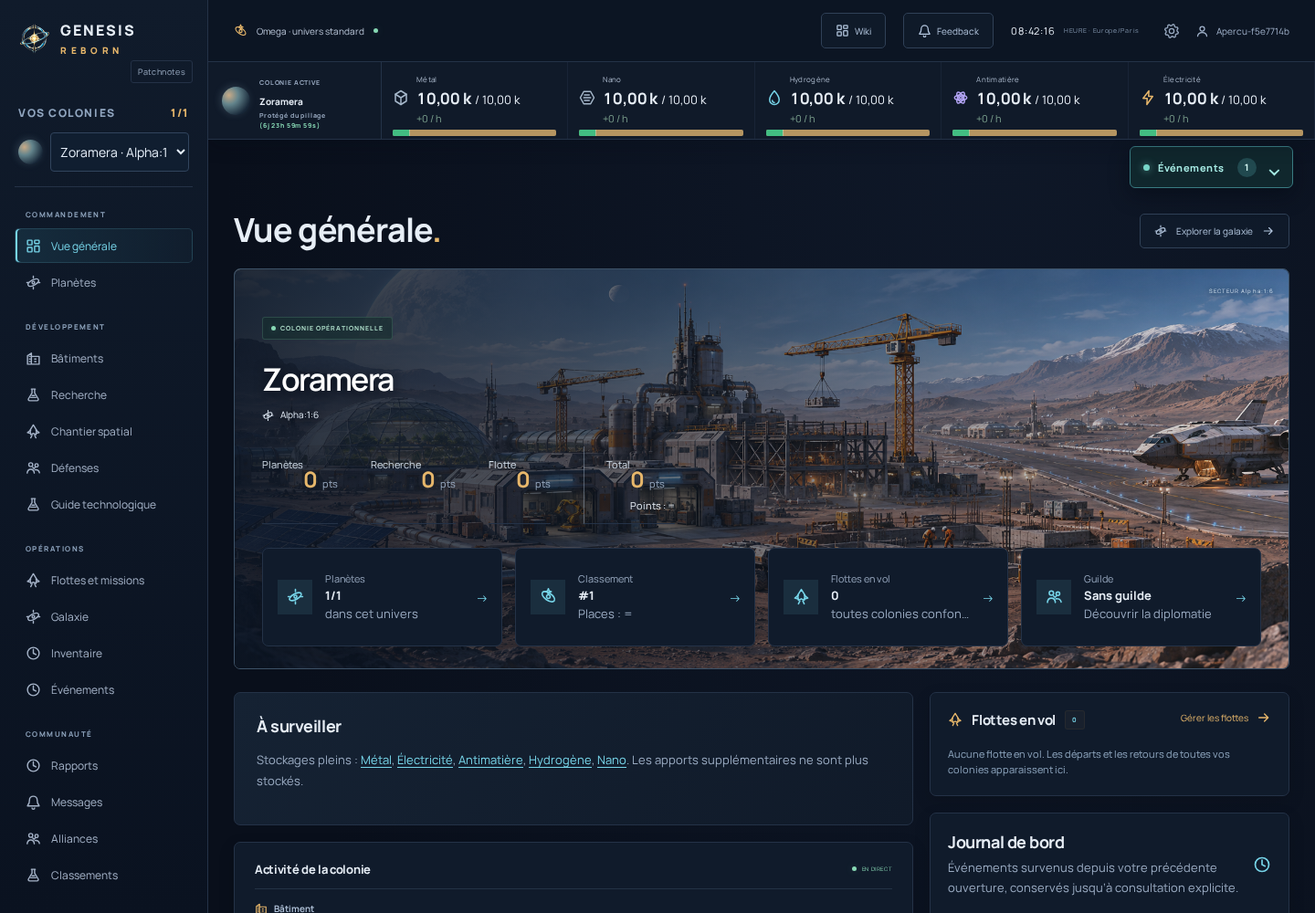
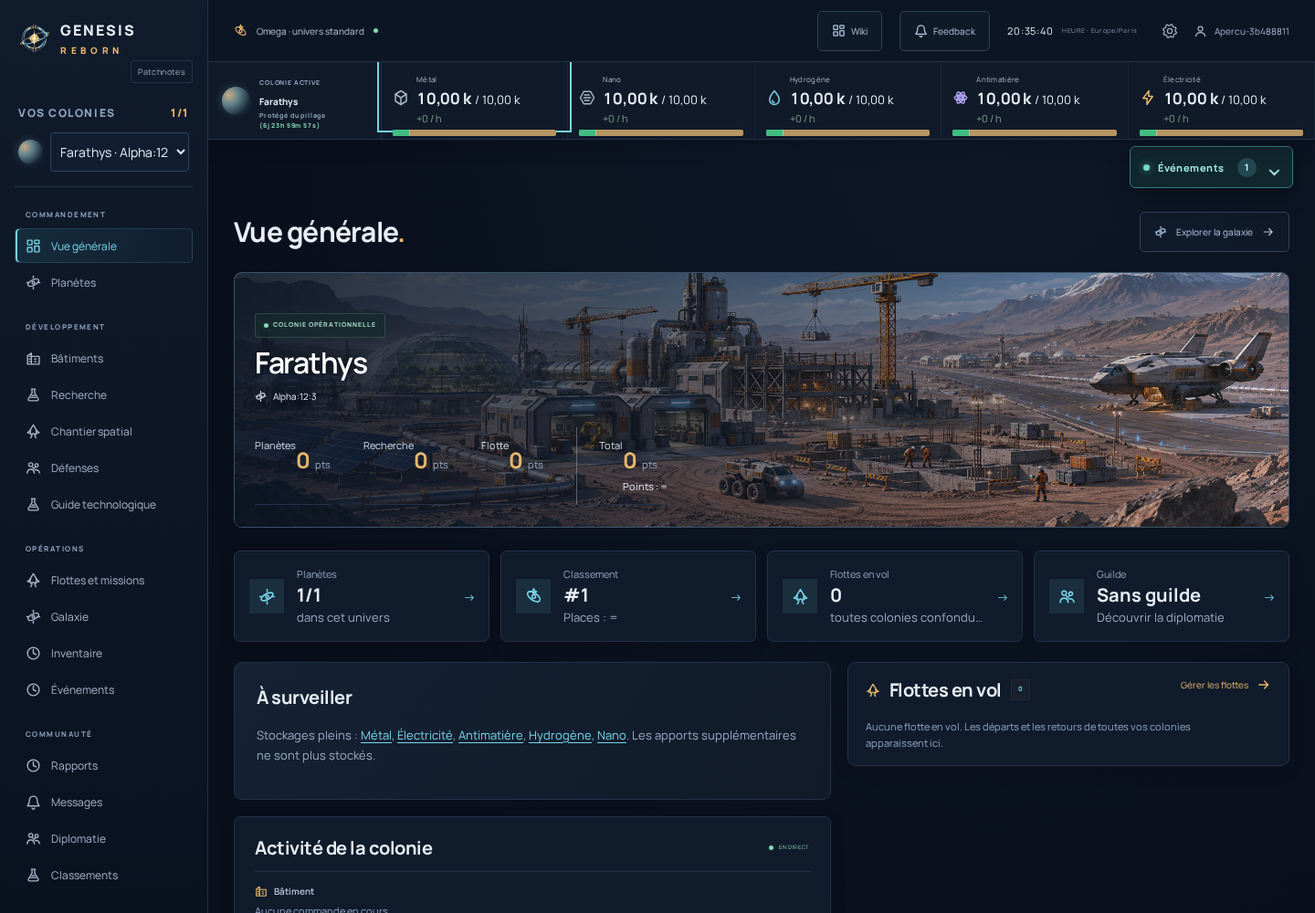
feat: ajoute les fiches de projet et la navigation approuvee

diff --git a/app/assets/controllers/wiki_chapters_controller.js b/app/assets/controllers/wiki_chapters_controller.js
@@ -1,0 +1,56 @@
+import { Controller } from '@hotwired/stimulus';
+
+export default class extends Controller {
+    static values = { search: Boolean };
+    connect() {
+        this.chapters = [...this.element.querySelectorAll('.wiki-chapter')];
+        this.picker = this.element.querySelector('[name="chapter"]');
+        if (!this.chapters.length || !this.picker) return;
+        this.element.classList.add('wiki-chapters-ready');
+        this.follow = () => this.show(location.hash.slice(1));
+        this.choose = event => {
+            if (!event.target.value) return;
+            const id = 'wiki-' + event.target.value;
+            if (this.searchValue) { this.picker.form.requestSubmit(); return; }
+            this.navigate(id);
+        };
+        this.click = event => {
+            const link = event.target.closest('a[href^="#wiki-"]');
+            if (!link || event.button !== 0 || event.metaKey || event.ctrlKey || event.shiftKey || event.altKey) return;
+            const id = link.hash.slice(1);
+            if (!this.chapters.some(chapter => chapter.id === id)) return;
+            event.preventDefault();
+            this.navigate(id);
+        };
+        this.element.addEventListener('click', this.click);
+        this.picker.addEventListener('change', this.choose);
+        window.addEventListener('hashchange', this.follow);
+        window.addEventListener('popstate', this.follow);
+        this.follow();
+    }
+    navigate(id) {
+        history.pushState(null, '', '#' + id);
+        this.show(id);
+        const heading = document.getElementById(id)?.querySelector('h2');
+        if (heading) { heading.tabIndex = -1; heading.focus({ preventScroll: true }); heading.scrollIntoView({ block: 'start' }); }
+    }
+    show(id) {
+        if (this.searchValue) return;
+        if (id && !this.chapters.some(chapter => chapter.id === id)) return;
+        const current = this.chapters.find(chapter => chapter.id === id) || this.chapters[0];
+        for (const chapter of this.chapters) chapter.hidden = chapter !== current;
+        this.picker.value = current.id.slice(5);
+        for (const link of this.element.querySelectorAll('.wiki-summary a')) {
+            if (link.hash === '#' + current.id) link.setAttribute('aria-current', 'true');
+            else link.removeAttribute('aria-current');
+        }
+    }
+    disconnect() {
+        this.element.removeEventListener('click', this.click);
+        this.picker?.removeEventListener('change', this.choose);
+        window.removeEventListener('hashchange', this.follow);
+        window.removeEventListener('popstate', this.follow);
+        for (const chapter of this.chapters || []) chapter.hidden = false;
+        this.element.classList.remove('wiki-chapters-ready');
+    }
+}

diff --git a/app/assets/controllers/colony_comparison_controller.js b/app/assets/controllers/colony_comparison_controller.js
@@ -1,0 +1,26 @@
+import { Controller } from '@hotwired/stimulus';
+
+export default class extends Controller {
+    connect() {
+        this.element.classList.add('comparison-ready');
+        this.restore = () => this.update(new URL(location.href).searchParams.get('resource') || 'metal');
+        window.addEventListener('popstate', this.restore);
+    }
+    select(event) {
+        const resource = event.target.value;
+        const url = new URL(location.href);
+        url.searchParams.set('resource', resource);
+        history.pushState(null, '', url);
+        this.update(resource);
+    }
+    update(resource) {
+        const select = this.element.querySelector('select');
+        if (![...select.options].some(option => option.value === resource)) resource = 'metal';
+        select.value = resource;
+        for (const cell of document.querySelectorAll('.colony-comparison [data-resource]')) cell.classList.toggle('is-selected-resource', cell.dataset.resource === resource);
+    }
+    disconnect() {
+        window.removeEventListener('popstate', this.restore);
+        this.element.classList.remove('comparison-ready');
+    }
+}

diff --git a/app/src/Controller/GuildProjectController.php b/app/src/Controller/GuildProjectController.php
@@ -21,15 +21,8 @@ final class GuildProjectController extends AbstractController
         $readOnly=$vacations->isActive($actor);$rows=[];$launched=[];$available=[];
         if($guild && $enabled) {
             foreach($repo->all(GuildProject::class,['guildId'=>$guild->id,'universe'=>$actor->universe],['id'=>'DESC']) as $project) {
-                $launched[$project->definition->id]=true;$contributions=[];$own=[];
-                foreach($repo->all(GuildProjectContribution::class,['project'=>$project]) as $row) {
-                    $player=$repo->find(PlayerUniverse::class,$row->playerUniverseId);
-                    $contributions[]=['name'=>$player?->getDisplayName()??'Ancien membre #'.$row->playerUniverseId,'resources'=>$row->resources];
-                    if($row->playerUniverseId===$actor->id) $own=$row->resources;
-                }
-                $rows[]=['project'=>$project,'remaining'=>$project->status==='active'?$rules->remaining($project->snapshot['stages'][$project->stageIndex]['costs'],$project->progress):[],
-                    'contributions'=>$contributions,'own'=>$own,'qualified'=>$rules->eligible($own,$project->snapshot['minimums']),
-                    'rewarded'=>$boosts->hasGuildProjectReward($actor,$project->definition->id)];
+                $launched[$project->definition->id]=true;
+                $rows[]=$this->projectRow($project,$actor,$repo,$rules,$boosts);
             }
             foreach($repo->all(GuildProjectDefinition::class,['universe'=>$actor->universe,'enabled'=>true]) as $definition) {
                 if(!isset($launched[$definition->id])) $available[]=['definition'=>$definition,'rewarded'=>$boosts->hasGuildProjectReward($actor,$definition->id)];
@@ -39,13 +32,38 @@ final class GuildProjectController extends AbstractController
         return $this->render('player/guild_projects.html.twig',['membership'=>$actor,'guild'=>$guild,'enabled'=>$enabled,'readOnly'=>$readOnly,'canStart'=>!$readOnly && $access->allows($member,'projects.start'),'rows'=>$rows,'available'=>$available,'planets'=>$guild?$repo->planets($actor->universe,$actor):[],'resources'=>$catalog->rules()['resources']]);
     }
 
+    #[Route('/guildes/projets/{id}',name:'app_guild_project',requirements:['id'=>'\d+'],methods:['GET'])]
+    public function show(int $id,UniverseContext $context,GameRepository $repo,GameCatalog $catalog,RelationResolver $relations,GuildProjectRules $rules,BoostGrantService $boosts,VacationCalendar $vacations): Response
+    {
+        $actor=$context->membership();$guild=$relations->guild($actor);
+        $project=$repo->find(GuildProject::class,$id);
+        if(!$guild || !$catalog->forUniverse($actor->universe)['features']['guilds_enabled'] || !$project || $project->guildId!==$guild->id || $project->universe->id!==$actor->universe->id) throw $this->createNotFoundException('Projet inaccessible.');
+        return $this->render('player/guild_project.html.twig',[
+            'membership'=>$actor,'guild'=>$guild,'project'=>$project,'row'=>$this->projectRow($project,$actor,$repo,$rules,$boosts),
+            'readOnly'=>$vacations->isActive($actor),'planets'=>$repo->planets($actor->universe,$actor),'resources'=>$catalog->rules()['resources'],
+        ]);
+    }
+
+    private function projectRow(GuildProject $project,PlayerUniverse $actor,GameRepository $repo,GuildProjectRules $rules,BoostGrantService $boosts): array
+    {
+        $contributions=[];$own=[];
+        foreach($repo->all(GuildProjectContribution::class,['project'=>$project]) as $row) {
+            $player=$repo->find(PlayerUniverse::class,$row->playerUniverseId);
+            $contributions[]=['name'=>$player?->getDisplayName()??'Ancien membre #'.$row->playerUniverseId,'resources'=>$row->resources];
+            if($row->playerUniverseId===$actor->id) $own=$row->resources;
+        }
+        return ['project'=>$project,'remaining'=>$project->status==='active'?$rules->remaining($project->snapshot['stages'][$project->stageIndex]['costs'],$project->progress):[],
+            'contributions'=>$contributions,'own'=>$own,'qualified'=>$rules->eligible($own,$project->snapshot['minimums']),
+            'rewarded'=>$boosts->hasGuildProjectReward($actor,$project->definition->id)];
+    }
+
     #[Route('/guildes/projets/modeles/{id}/lancer',name:'app_guild_project_start',requirements:['id'=>'\d+'],methods:['POST'])]
     public function start(int $id,Request $request,UniverseContext $context,GuildProjectService $projects): Response
     {
         if(!$this->isCsrfTokenValid('guild_project_start_'.$id,$request->request->get('_token'))) throw $this->createAccessDeniedException('Formulaire expiré.');
-        try { $projects->start($context->membership(),$id,$request->request->getInt('version'));$this->addFlash('success','Projet lancé. Les membres peuvent maintenant contribuer.'); }
+        try { $project=$projects->start($context->membership(),$id,$request->request->getInt('version'));$this->addFlash('success','Projet lancé. Les membres peuvent maintenant contribuer.'); }
         catch(\DomainException $error) { $this->addFlash('error',$error->getMessage()); }
-        return $this->redirectToRoute('app_guild_projects');
+        return isset($project)?$this->redirectToRoute('app_guild_project',['id'=>$project->id]):$this->redirectToRoute('app_guild_projects');
     }
 
     #[Route('/guildes/projets/{id}/contribuer',name:'app_guild_project_contribute',requirements:['id'=>'\d+'],methods:['POST'])]
@@ -56,6 +74,6 @@ final class GuildProjectController extends AbstractController
             $completed=$projects->contribute($context->membership(),$id,$request->request->getInt('planet_id'),$request->request->all('resources'),$request->request->getInt('version'));
             $this->addFlash('success',$completed?'Don enregistré. Le projet est terminé.':'Don enregistré. Merci pour votre contribution.');
         } catch(\DomainException $error) { $this->addFlash('error',$error->getMessage()); }
-        return $this->redirectToRoute('app_guild_projects');
+        return $this->redirectToRoute('app_guild_project',['id'=>$id]);
     }
 }

diff --git a/app/tests/Controller/GameplayAccessTest.php b/app/tests/Controller/GameplayAccessTest.php
@@ -58,6 +58,36 @@ final class GameplayAccessTest extends WebTestCase
         self::assertSelectorTextSame('h1', 'Joueurs et modération');
     }
 
+    public function testProjectDetailIsRestrictedToOwnGuildAndActiveUniverse(): void
+    {
+        $this->client->disableReboot();
+        [$owner]=$this->player('ProjectDetailOwner');[$other]=$this->player('ProjectDetailOther');
+        $universes=static::getContainer()->get(UniverseService::class);
+        $omega=$this->em->getRepository(Universe::class)->findOneBy(['slug'=>'omega-1']);
+        $universes->select($owner,$omega->id);$universes->select($other,$omega->id);
+        $owner->roles=['ROLE_ADMIN'];$this->em->flush();
+        $diplomacy=static::getContainer()->get(\App\Service\Player\DiplomacyService::class);
+        $diplomacy->create($owner->currentPlayerUniverse,'Projet privé','PRIV');
+        $definition=static::getContainer()->get(\App\Service\Player\GuildProjectDefinitionService::class)->save($owner,0,[
+            'universe_id'=>$omega->id,'name'=>'Station privée','description'=>'Projet réservé à la guilde.','enabled'=>true,
+            'stages'=>[['name'=>'Structure','costs'=>['metal'=>10]]],'minimums'=>['metal'=>2],
+        ],0);
+        $project=static::getContainer()->get(\App\Service\Player\GuildProjectService::class)->start($owner->currentPlayerUniverse,$definition->id,$definition->version);
+        $path='/guildes/projets/'.$project->id;
+        $this->client->loginUser($owner);$this->client->request('GET',$path);
+        self::assertResponseIsSuccessful();self::assertSelectorTextSame('h1','Station privée');
+        self::assertSelectorExists('form input[name="version"]');self::assertSelectorTextContains('.guild-project','Votre contribution');
+        $this->client->loginUser($other);$this->client->request('GET',$path);self::assertResponseStatusCodeSame(404);
+        $other=$this->em->find(Player::class,$other->id);
+        $diplomacy->create($other->currentPlayerUniverse,'Autre projet','AUTR');
+        $this->client->request('GET',$path);self::assertResponseStatusCodeSame(404);
+        $this->client->loginUser($owner);
+        $owner=$this->em->find(Player::class,$owner->id);
+        $turbo=$this->em->getRepository(Universe::class)->findOneBy(['slug'=>'turbo-1']);$universes->select($owner,$turbo->id);
+        $this->client->request('GET',$path);self::assertResponseStatusCodeSame(404);
+        $owner=$this->em->find(Player::class,$owner->id);$universes->select($owner,$omega->id);$this->client->request('GET','/guildes/projets/999999999');self::assertResponseStatusCodeSame(404);
+    }
+
     public function testOtherPlayerPlanetResourcesAndActionsAreInaccessible():void
     {
         [$a,$own]=$this->player('Alpha');[$b,$foreign]=$this->player('Beta');$this->client->loginUser($a);

diff --git a/app/src/Controller/ColonyController.php b/app/src/Controller/ColonyController.php
@@ -41,7 +41,7 @@ final class ColonyController extends AbstractController
         $positionModifiers=[];$activities=[];
         foreach($planets as $planet) $activities[$planet->id]=count($this->repo->queue($planet));
         foreach($planets as $planet) $positionModifiers[$planet->id]=$resources->positionProductionModifiers($planet);
-        return $this->render('colony/planets.html.twig',['membership'=>$membership,'planets'=>$planets,'available_planets'=>$available,'position_modifiers'=>$positionModifiers,'activities'=>$activities,'table_view'=>$request->query->get('view')==='table','planet_details'=>$details->planets($membership)]);
+        return $this->render('colony/planets.html.twig',['membership'=>$membership,'planets'=>$planets,'available_planets'=>$available,'position_modifiers'=>$positionModifiers,'activities'=>$activities,'table_view'=>$request->query->get('view')==='table','comparison_resource'=>in_array($request->query->getString('resource'),['metal','nano','hydrogen','antimatter','electricity'],true)?$request->query->getString('resource'):'metal','planet_details'=>$details->planets($membership)]);
     }
     #[Route('/planetes/{id}',name:'app_colony',methods:['GET'],requirements:['id'=>'\d+'])]
     public function show(int $id,Request $request,ColonyView $view,\App\Service\Player\DailyLeaderboard $leaderboard,RelationResolver $relations,GameCatalog $catalog,\App\Service\Notification\JournalService $journal,\App\Service\Colony\EmpireDetails $details): Response

diff --git a/app/src/Controller/WikiController.php b/app/src/Controller/WikiController.php
@@ -38,9 +38,13 @@ final class WikiController extends AbstractController
             'decisions' => 'DECISIONS.md',
             default => throw $this->createNotFoundException('Référence inconnue.'),
         };
+        $text=file_get_contents(dirname($this->projectDirectory).'/docs/'.$file);
+        $parts=preg_split('/^(## .+)$/m',$text,-1,PREG_SPLIT_DELIM_CAPTURE);
+        $intro=array_shift($parts);$blocks=[];
+        for($index=0;$index<count($parts);$index+=2) $blocks[]=['title'=>substr($parts[$index],3),'text'=>$parts[$index+1]??''];
         return $this->render('wiki/reference.html.twig', [
             'referenceTitle' => $source === 'regles' ? 'Règles de référence' : 'Décisions du projet',
-            'referenceText' => file_get_contents(dirname($this->projectDirectory).'/docs/'.$file),
+            'referenceIntro'=>$intro,'referenceBlocks'=>$blocks,
         ]);
     }
 }

diff --git a/README.md b/README.md
@@ -8,8 +8,8 @@ L’orientation confirmée est une stratégie au rythme modéré ; les durées d
 
 - Parcours : rubriques liées par des ancres dans Flottes, Inventaire, Projets et Rapports ; confirmations d’annulation avec dépendances et remboursements estimés ; retours aux rapports conservant catégorie, archives et page. Profil, Préférences et Vacances sont reliés ; l’accueil public présente des captures d’un compte de démonstration. [Suivi du lot](docs/PARCOURS_UI_UX.md).
 - Opérations : recherches, vaisseaux et défenses paient une fois `100 × ceil(durée effective / 60)` en électricité. Soit 100 E par minute entamée sur la commande entière ; un lot est arrondi une seule fois. Les accélérations ne recalculent pas le coût ; les annulations remboursent 25 % du paiement conservé, dans la place disponible. Les reconstructions automatiques suivent aussi cette règle.
-- Catalogues : interrupteur « Vue condensée » mémorisé sur cet appareil, sans modifier les actions ni les prérequis. Les cartes affichent jusqu’à cinq ressources sur une ligne, avec libellés abrégés si nécessaire. Le bouton gris désactivé indique les ressources manquantes ; les illustrations des rangs verrouillés sont en noir et blanc. Le wiki propose une recherche par chapitre utilisable sans JavaScript et des liens directs. Les points totaux suivent immédiatement le commandant dans le classement.
-- Colonies : comparaison par tableau (stocks / capacités, solde net horaire, commandes en file), avec accès direct à chaque colonie. Le bandeau propose une fiche économique par ressource au survol, au clavier ou au toucher : sources, consommation, solde et estimations au rythme actuel issus du moteur de production. La vue générale garde le compteur et l’accès aux colonies ; leur liste détaillée reste sur Planètes. Bases métal et nano : 10/h chacun avant multiplicateurs ; base nulle pour électricité, antimatière et hydrogène ; production suspendue en vacances.
+- Catalogues : interrupteur « Vue condensée » mémorisé sur cet appareil, sans modifier les actions ni les prérequis. Les cartes affichent jusqu’à cinq ressources sur une ligne, avec libellés abrégés si nécessaire. Le bouton gris désactivé indique les ressources manquantes ; les illustrations des rangs verrouillés sont en noir et blanc. Le wiki propose une recherche utilisable sans JavaScript, un sommaire persistant sur ordinateur, un sélecteur mobile et des liens directs ; avec JavaScript, un chapitre est affiché à la fois hors recherche, avec retour arrière conservé. Les points totaux suivent immédiatement le commandant dans le classement ; sur mobile, les autres catégories sont consultables dans chaque ligne. Les catalogues gardent leur présentation, avec les files et flottes en vol fixes au défilement sur grand écran.
+- Colonies : comparaison par tableau (stocks / capacités, solde net horaire, commandes en file), avec accès direct à chaque colonie et sélection de la ressource sur mobile. Les projets collectifs ont une fiche dédiée à la progression et aux dons, accessible uniquement à leur guilde dans l’univers actif. Le bandeau propose une fiche économique par ressource au survol, au clavier ou au toucher : sources, consommation, solde et estimations au rythme actuel issus du moteur de production. La vue générale garde le compteur et l’accès aux colonies ; leur liste détaillée reste sur Planètes. Bases métal et nano : 10/h chacun avant multiplicateurs ; base nulle pour électricité, antimatière et hydrogène ; production suspendue en vacances.
 - Navigation : les raccourcis « Explorer la galaxie » ouvrent la carte interactive ; la liste des systèmes reste accessible. Le guide technologique se trouve dans Développement et les événements restent accessibles depuis Opérations, même sans événement actif.
 
 **L’Alpha est hébergée, selon le propriétaire.** Son URL publique, sa version exécutée et sa configuration serveur restent à confirmer. Les changements intégrés à `dev` ne sont pas déclarés déployés : consulter [l’état du déploiement](docs/DEPLOIEMENT.md).
@@ -22,7 +22,7 @@ Le code comprend :
   - Session expirée après 24 h sans requête au serveur ; case « Se souvenir de moi » facultative pendant 30 jours, annulée à la déconnexion. Un cookie de mémorisation valide permet de retrouver sa connexion après expiration de la session.
   - Mots de passe masqués par défaut, avec un bouton œil pour afficher ou masquer chaque champ.
 - Classements joueurs : en-têtes cliquables pour les points totaux (par défaut), bâtiments, recherche, flotte et nombre de planètes ; rang et variation propres à chaque catégorie, tri global avant pagination de 50 lignes, catégorie conservée entre pages. Scores et guildes figés jusqu’au prochain minuit, heure de Paris (été/hiver inclus). Les écarts comparent les deux derniers calculs : dans le tableau joueur, (+N) en vert, (−N) en rouge, (= 0) si inchangé, (—) sans comparaison. Les signes et libellés accessibles complètent les couleurs. Les protections de combat restent en temps réel. Le relais existant initialise et actualise les instantanés persistés ; une lecture rattrape aussi une échéance manquée. Nouveaux joueurs et guildes apparaissent au prochain calcul.
-- Équilibrage des ressources : première planète à 10 000 de chaque ressource, colonies à 5 000 hors électricité selon le rang, stockage de base à 10 000 ; productions passives M10/E0/A10/H80/N10 par heure à position 5, univers ×1. Les règles s’appliquent directement au déploiement, sans date à configurer, y compris à toute la production en attente depuis le dernier calcul enregistré. Les stocks existants et leurs surplus sont conservés. Voir [les règles et la transition](docs/REGLES.md#ressources-initiales-et-production-passive--décision-du-10-novembre-2026).
+- Équilibrage des ressources : première planète à 10 000 de chaque ressource, colonies à 5 000 hors électricité selon le rang, stockage de base à 10 000 ; productions passives M10/E0/A0/H0/N10 par heure à position 5, univers ×1. Les règles s’appliquent directement au déploiement, sans date à configurer, y compris à toute la production en attente depuis le dernier calcul enregistré. Les stocks existants et leurs surplus sont conservés. Voir [les règles et la transition](docs/REGLES.md#ressources-initiales-et-production-passive--décision-du-10-novembre-2026).
 - Interface partagée : les événements occupent leur propre zone sous la barre de ressources et défilent avec la page. Carte V2 : numéro, nom et statut des planètes alignés selon l’espace disponible ; les coordonnées des systèmes restent dans les panneaux et ne sont dessinées sur la carte qu’au survol ou au focus clavier d’un résultat de recherche de système.
 - Suivi des pages Bâtiments, Recherche, Chantier spatial et Défenses : activité en haut sur mobile et tablette ; flottes en vol masquées sur mobile (jusqu’à 740 px), conservées sur tablette. À partir de 1 251 px, activité et flottes sont regroupées à droite, activité au-dessus. L’ordre de lecture et l’actualisation en direct sont conservés.
 - Recherche : une file commune par joueur et par univers, accessible depuis toutes ses colonies, avec 30 commandes maximum. Chaque ajout utilise les ressources et le laboratoire de la colonie choisie ; coûts et durée restent fixés à cet instant. Les recherches déjà actives en parallèle sont conservées ; les suivantes attendent leur fin avant de se succéder.

diff --git a/docs/PARCOURS_UI_UX.md b/docs/PARCOURS_UI_UX.md
@@ -104,3 +104,26 @@ Validation des fiches économiques : suite complète locale réussie, 882 tests 
 La CI de `8562253` a relevé une attente obsolète du test `empire-details` : il cherchait encore les cartes détaillées sur la vue générale après leur retrait demandé. Le scénario vérifie maintenant leur absence, l’accès à Planètes puis tous les comportements de survol, clavier, tactile, dimensions et accessibilité sur cette page. Le suivi des flottes reste testé sur la vue générale. Reprise locale réussie du scénario complet ; aucune assertion d’interaction n’est retirée de la fonctionnalité conservée.
 
 Les cartes à cinq coûts adaptent aussi la taille des montants en vue condensée : les libellés restent abrégés sur les cartes étroites et les montants longs ne se chevauchent pas. Le contrôle navigateur couvre ce cas aux mêmes largeurs de 320, 390, 1440 et 1920 pixels.
+
+
+## Intégration des maquettes approuvées le 13 novembre 2026
+
+Complexité : présentation ciblée 3/5, fiches et navigation 4/5, vérifications 3/5.
+
+Les styles complémentaires sont limités aux pages approuvées. Univers, actualités, connexion, inscription, récupération et vérification de compte conservent leur présentation. Les quatre catalogues conservent leurs cartes, filtres et commandes ; leur seul changement de disposition est le regroupement fixe des activités et flottes sur ordinateur (à partir de 1 251 px). Les points restent dans le bandeau de la vue générale. Les métriques et le journal retrouvent des sections distinctes.
+
+Accueil : aperçu réel intégré à la présentation, sans dupliquer la capture de colonie. Compte, inventaire, diplomatie, rapports, confirmations, références et administration : espacements, lecture et commandes harmonisés. Les formulaires administratifs longs disposent de replis progressifs ; les formulaires, jetons et contrôles serveur existants sont conservés. Aucun JavaScript n’est nécessaire pour accéder aux formulaires.
+
+Planètes : comparaison mobile par ressource, avec formulaire GET de secours ; choix conservé dans l’adresse et lors du retour arrière. Un avertissement de surplus repose exclusivement sur le stock et la capacité réels. Classement joueur : points totaux visibles et autres catégories repliables sur mobile, tris et actions conservés.
+
+Projets : liste synthétique, puis fiche dédiée à la progression, contribution personnelle, conditions et dons. La fiche vérifie guilde et univers côté serveur ; les services de contribution et leurs verrous/versions restent inchangés. Le lancement réussi et les dons reviennent sur la fiche. Les formulaires de don restent utilisables sans JavaScript.
+
+Wiki : recherche serveur conservée ; navigation progressive par chapitre avec liens directs, historique et sélecteur mobile. Sans JavaScript, le manuel reste intégralement visible et les formulaires de recherche/sélection fonctionnent. Les documents de référence sont présentés par sections repliables, sans réécriture des sources historiques. Les demandes d’orbite vides se replient ; une demande présente ou reçue en direct ouvre automatiquement le détail.
+
+Validation locale de cette intégration : `make validate`, `make lint`, `make assets` et vérification finale des 151 templates Twig réussis. `make test` : 883 tests PHP, 211 284 assertions et 13 tests Python réussis. Douze scénarios navigateur concernés réussis sur reprises ciblées : catalogues, fiches économiques, comparaison, projets, wiki, routes dans les deux thèmes, navigation et édition administratives. Le parcours général a aussi régénéré les deux aperçus publics depuis un empire fictif isolé.
+
+Contrôle des pages complètes : 90 états rendus, 202 captures ordinateur/mobile (dont les contrôles complémentaires du thème clair), sans image manquante ni débordement horizontal. Des captures représentatives ont été examinées visuellement. Cela complète les contrôles ciblés de clavier, focus, permissions et fonctionnement sans JavaScript ; ce n’est pas un audit RGAA complet.
+
+Les reprises ont corrigé la conservation du focus lors du repli progressif des formulaires administratifs et la restitution du saut de ligne initial des sections de référence. Les tests du wiki continuent de comparer l’intégralité du contenu aux sources. Une compilation automatique locale avait croisé la compilation de production ; le mode local cohérent a été rétabli sans changer la configuration ni affaiblir les tests.
+
+La CI complète reste à vérifier sur le dernier commit de cette intégration. Aucun changement économique supplémentaire, aucune migration sur la base du jeu, fusion ou déploiement dans ce complément.
